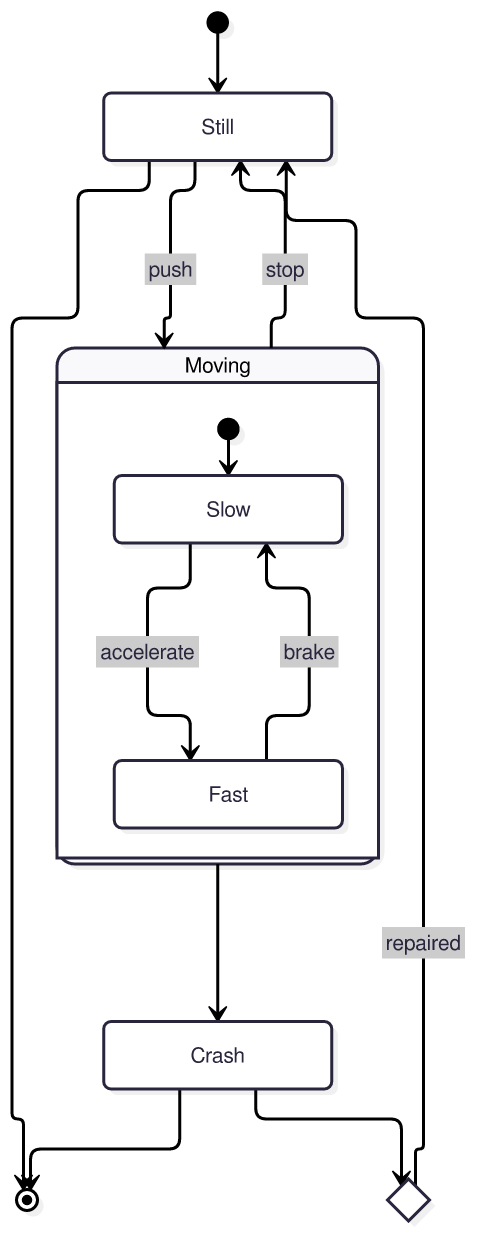
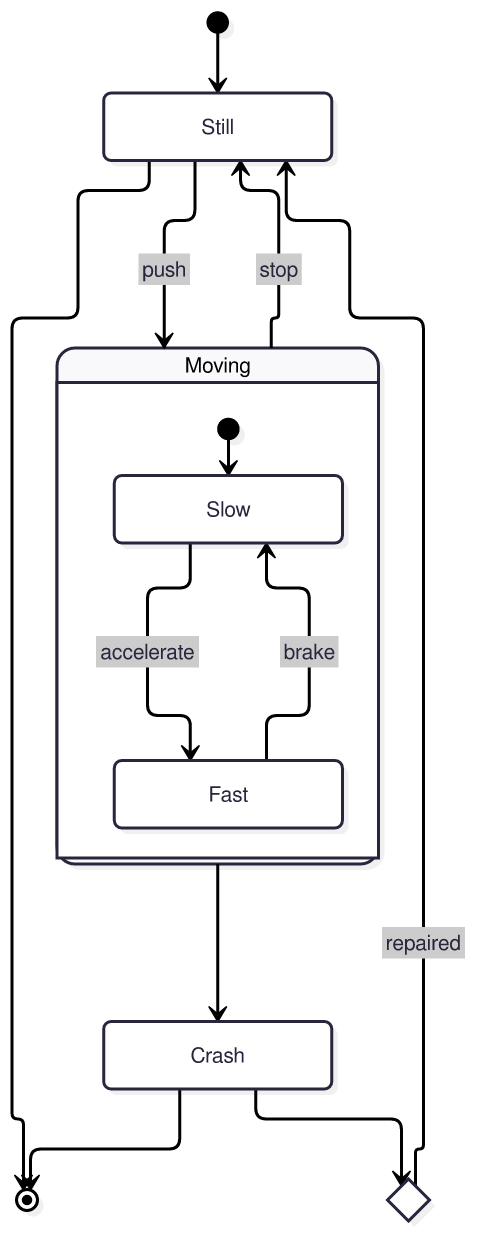
Regenerate gallery after routing fixes
Claude-Session: https://claude.ai/code/session_01YSBvDqvT7DHspcB7hQZR6n

Changed region(s): [[0.5283, 0.1541, 0.6457, 0.2774], [0.2935, 0.1541, 0.4109, 0.2774], [0.7044, 0.1849, 0.7631, 0.2774]]

diff --git a/docs/GALLERY.md b/docs/GALLERY.md
@@ -5,7 +5,7 @@ Regenerate with `cargo run --release --example gallery`.
 
 ## agentflow
 
-Source: [`examples/diagrams/agentflow.mmd`](../examples/diagrams/agentflow.mmd) · rendered in 1.38ms
+Source: [`examples/diagrams/agentflow.mmd`](../examples/diagrams/agentflow.mmd) · rendered in 673.00µs
 
 <details><summary>source</summary>
 
@@ -37,7 +37,7 @@ agentflow-beta TB
 
 ## architecture
 
-Source: [`examples/diagrams/architecture.mmd`](../examples/diagrams/architecture.mmd) · rendered in 202.51µs
+Source: [`examples/diagrams/architecture.mmd`](../examples/diagrams/architecture.mmd) · rendered in 331.53µs
 
 <details><summary>source</summary>
 
@@ -74,7 +74,7 @@ architecture-beta
 
 ## block
 
-Source: [`examples/diagrams/block.mmd`](../examples/diagrams/block.mmd) · rendered in 231.13µs
+Source: [`examples/diagrams/block.mmd`](../examples/diagrams/block.mmd) · rendered in 321.44µs
 
 <details><summary>source</summary>
 
@@ -109,7 +109,7 @@ block-beta
 
 ## c4-container
 
-Source: [`examples/diagrams/c4-container.mmd`](../examples/diagrams/c4-container.mmd) · rendered in 371.19µs
+Source: [`examples/diagrams/c4-container.mmd`](../examples/diagrams/c4-container.mmd) · rendered in 422.12µs
 
 <details><summary>source</summary>
 
@@ -154,7 +154,7 @@ C4Container
 
 ## c4
 
-Source: [`examples/diagrams/c4.mmd`](../examples/diagrams/c4.mmd) · rendered in 408.16µs
+Source: [`examples/diagrams/c4.mmd`](../examples/diagrams/c4.mmd) · rendered in 442.29µs
 
 <details><summary>source</summary>
 
@@ -209,7 +209,7 @@ C4Context
 
 ## class
 
-Source: [`examples/diagrams/class.mmd`](../examples/diagrams/class.mmd) · rendered in 320.38µs
+Source: [`examples/diagrams/class.mmd`](../examples/diagrams/class.mmd) · rendered in 320.50µs
 
 <details><summary>source</summary>
 
@@ -249,7 +249,7 @@ classDiagram
 
 ## cynefin
 
-Source: [`examples/diagrams/cynefin.mmd`](../examples/diagrams/cynefin.mmd) · rendered in 172.98µs
+Source: [`examples/diagrams/cynefin.mmd`](../examples/diagrams/cynefin.mmd) · rendered in 150.61µs
 
 <details><summary>source</summary>
 
@@ -285,7 +285,7 @@ cynefin-beta
 
 ## er-subgraphs
 
-Source: [`examples/diagrams/er-subgraphs.mmd`](../examples/diagrams/er-subgraphs.mmd) · rendered in 307.32µs
+Source: [`examples/diagrams/er-subgraphs.mmd`](../examples/diagrams/er-subgraphs.mmd) · rendered in 419.81µs
 
 <details><summary>source</summary>
 
@@ -325,7 +325,7 @@ erDiagram
 
 ## er
 
-Source: [`examples/diagrams/er.mmd`](../examples/diagrams/er.mmd) · rendered in 461.79µs
+Source: [`examples/diagrams/er.mmd`](../examples/diagrams/er.mmd) · rendered in 351.70µs
 
 <details><summary>source</summary>
 
@@ -377,7 +377,7 @@ erDiagram
 
 ## eventmodeling
 
-Source: [`examples/diagrams/eventmodeling.mmd`](../examples/diagrams/eventmodeling.mmd) · rendered in 176.32µs
+Source: [`examples/diagrams/eventmodeling.mmd`](../examples/diagrams/eventmodeling.mmd) · rendered in 192.71µs
 
 <details><summary>source</summary>
 
@@ -401,7 +401,7 @@ tf 08 rmo CartItems ->> 03 ->> 07
 
 ## flowchart
 
-Source: [`examples/diagrams/flowchart.mmd`](../examples/diagrams/flowchart.mmd) · rendered in 242.16µs
+Source: [`examples/diagrams/flowchart.mmd`](../examples/diagrams/flowchart.mmd) · rendered in 274.80µs
 
 <details><summary>source</summary>
 
@@ -429,7 +429,7 @@ flowchart TD
 
 ## gantt
 
-Source: [`examples/diagrams/gantt.mmd`](../examples/diagrams/gantt.mmd) · rendered in 773.07µs
+Source: [`examples/diagrams/gantt.mmd`](../examples/diagrams/gantt.mmd) · rendered in 895.64µs
 
 <details><summary>source</summary>
 
@@ -469,7 +469,7 @@ gantt
 
 ## gitgraph
 
-Source: [`examples/diagrams/gitgraph.mmd`](../examples/diagrams/gitgraph.mmd) · rendered in 151.96µs
+Source: [`examples/diagrams/gitgraph.mmd`](../examples/diagrams/gitgraph.mmd) · rendered in 244.30µs
 
 <details><summary>source</summary>
 
@@ -507,7 +507,7 @@ gitGraph
 
 ## info
 
-Source: [`examples/diagrams/info.mmd`](../examples/diagrams/info.mmd) · rendered in 91.60µs
+Source: [`examples/diagrams/info.mmd`](../examples/diagrams/info.mmd) · rendered in 149.51µs
 
 <details><summary>source</summary>
 
@@ -521,7 +521,7 @@ info showInfo
 
 ## ishikawa
 
-Source: [`examples/diagrams/ishikawa.mmd`](../examples/diagrams/ishikawa.mmd) · rendered in 140.42µs
+Source: [`examples/diagrams/ishikawa.mmd`](../examples/diagrams/ishikawa.mmd) · rendered in 216.37µs
 
 <details><summary>source</summary>
 
@@ -554,7 +554,7 @@ ishikawa-beta
 
 ## journey
 
-Source: [`examples/diagrams/journey.mmd`](../examples/diagrams/journey.mmd) · rendered in 242.66µs
+Source: [`examples/diagrams/journey.mmd`](../examples/diagrams/journey.mmd) · rendered in 265.84µs
 
 <details><summary>source</summary>
 
@@ -579,7 +579,7 @@ journey
 
 ## kanban
 
-Source: [`examples/diagrams/kanban.mmd`](../examples/diagrams/kanban.mmd) · rendered in 255.59µs
+Source: [`examples/diagrams/kanban.mmd`](../examples/diagrams/kanban.mmd) · rendered in 360.83µs
 
 <details><summary>source</summary>
 
@@ -614,7 +614,7 @@ kanban
 
 ## mindmap
 
-Source: [`examples/diagrams/mindmap.mmd`](../examples/diagrams/mindmap.mmd) · rendered in 187.16µs
+Source: [`examples/diagrams/mindmap.mmd`](../examples/diagrams/mindmap.mmd) · rendered in 210.47µs
 
 <details><summary>source</summary>
 
@@ -652,7 +652,7 @@ mindmap
 
 ## packet
 
-Source: [`examples/diagrams/packet.mmd`](../examples/diagrams/packet.mmd) · rendered in 281.00µs
+Source: [`examples/diagrams/packet.mmd`](../examples/diagrams/packet.mmd) · rendered in 360.27µs
 
 <details><summary>source</summary>
 
@@ -686,7 +686,7 @@ packet-beta
 
 ## pie
 
-Source: [`examples/diagrams/pie.mmd`](../examples/diagrams/pie.mmd) · rendered in 100.04µs
+Source: [`examples/diagrams/pie.mmd`](../examples/diagrams/pie.mmd) · rendered in 121.24µs
 
 <details><summary>source</summary>
 
@@ -705,7 +705,7 @@ pie showData
 
 ## quadrant
 
-Source: [`examples/diagrams/quadrant.mmd`](../examples/diagrams/quadrant.mmd) · rendered in 155.27µs
+Source: [`examples/diagrams/quadrant.mmd`](../examples/diagrams/quadrant.mmd) · rendered in 149.94µs
 
 <details><summary>source</summary>
 
@@ -734,7 +734,7 @@ quadrantChart
 
 ## radar
 
-Source: [`examples/diagrams/radar.mmd`](../examples/diagrams/radar.mmd) · rendered in 192.82µs
+Source: [`examples/diagrams/radar.mmd`](../examples/diagrams/radar.mmd) · rendered in 183.25µs
 
 <details><summary>source</summary>
 
@@ -762,7 +762,7 @@ radar-beta
 
 ## railroad-abnf
 
-Source: [`examples/diagrams/railroad-abnf.mmd`](../examples/diagrams/railroad-abnf.mmd) · rendered in 203.97µs
+Source: [`examples/diagrams/railroad-abnf.mmd`](../examples/diagrams/railroad-abnf.mmd) · rendered in 202.87µs
 
 <details><summary>source</summary>
 
@@ -783,7 +783,7 @@ port = [ ":" ] 1*5DIGIT %x30-39 ;
 
 ## railroad-ir
 
-Source: [`examples/diagrams/railroad-ir.mmd`](../examples/diagrams/railroad-ir.mmd) · rendered in 162.65µs
+Source: [`examples/diagrams/railroad-ir.mmd`](../examples/diagrams/railroad-ir.mmd) · rendered in 250.48µs
 
 <details><summary>source</summary>
 
@@ -811,7 +811,7 @@ number = sequence(optional(terminal("-")), oneOrMore(nonterminal("digit")), spec
 
 ## railroad-peg
 
-Source: [`examples/diagrams/railroad-peg.mmd`](../examples/diagrams/railroad-peg.mmd) · rendered in 157.15µs
+Source: [`examples/diagrams/railroad-peg.mmd`](../examples/diagrams/railroad-peg.mmd) · rendered in 188.96µs
 
 <details><summary>source</summary>
 
@@ -832,7 +832,7 @@ Identifier <- !Keyword Letter Letter* . ;
 
 ## railroad
 
-Source: [`examples/diagrams/railroad.mmd`](../examples/diagrams/railroad.mmd) · rendered in 200.47µs
+Source: [`examples/diagrams/railroad.mmd`](../examples/diagrams/railroad.mmd) · rendered in 211.20µs
 
 <details><summary>source</summary>
 
@@ -854,7 +854,7 @@ string = '"' { ? any character except quote ? } '"' ;
 
 ## requirement
 
-Source: [`examples/diagrams/requirement.mmd`](../examples/diagrams/requirement.mmd) · rendered in 310.16µs
+Source: [`examples/diagrams/requirement.mmd`](../examples/diagrams/requirement.mmd) · rendered in 304.95µs
 
 <details><summary>source</summary>
 
@@ -936,7 +936,7 @@ requirementDiagram
 
 ## sankey
 
-Source: [`examples/diagrams/sankey.mmd`](../examples/diagrams/sankey.mmd) · rendered in 492.64µs
+Source: [`examples/diagrams/sankey.mmd`](../examples/diagrams/sankey.mmd) · rendered in 873.10µs
 
 <details><summary>source</summary>
 
@@ -981,7 +981,7 @@ Electricity grid,"Heating and cooling, homes",42.0
 
 ## sequence
 
-Source: [`examples/diagrams/sequence.mmd`](../examples/diagrams/sequence.mmd) · rendered in 165.89µs
+Source: [`examples/diagrams/sequence.mmd`](../examples/diagrams/sequence.mmd) · rendered in 243.46µs
 
 <details><summary>source</summary>
 
@@ -1016,7 +1016,7 @@ sequenceDiagram
 
 ## shapes
 
-Source: [`examples/diagrams/shapes.mmd`](../examples/diagrams/shapes.mmd) · rendered in 704.65µs
+Source: [`examples/diagrams/shapes.mmd`](../examples/diagrams/shapes.mmd) · rendered in 729.46µs
 
 <details><summary>source</summary>
 
@@ -1052,7 +1052,7 @@ flowchart LR
 
 ## state
 
-Source: [`examples/diagrams/state.mmd`](../examples/diagrams/state.mmd) · rendered in 323.20µs
+Source: [`examples/diagrams/state.mmd`](../examples/diagrams/state.mmd) · rendered in 458.66µs
 
 <details><summary>source</summary>
 
@@ -1080,7 +1080,7 @@ stateDiagram-v2
 
 ## subgraph-collapse
 
-Source: [`examples/diagrams/subgraph-collapse.mmd`](../examples/diagrams/subgraph-collapse.mmd) · rendered in 1.05ms
+Source: [`examples/diagrams/subgraph-collapse.mmd`](../examples/diagrams/subgraph-collapse.mmd) · rendered in 563.16µs
 
 <details><summary>source</summary>
 
@@ -1110,7 +1110,7 @@ flowchart LR
 
 ## subgraphs
 
-Source: [`examples/diagrams/subgraphs.mmd`](../examples/diagrams/subgraphs.mmd) · rendered in 267.79µs
+Source: [`examples/diagrams/subgraphs.mmd`](../examples/diagrams/subgraphs.mmd) · rendered in 359.40µs
 
 <details><summary>source</summary>
 
@@ -1141,7 +1141,7 @@ flowchart LR
 
 ## swimlane
 
-Source: [`examples/diagrams/swimlane.mmd`](../examples/diagrams/swimlane.mmd) · rendered in 278.58µs
+Source: [`examples/diagrams/swimlane.mmd`](../examples/diagrams/swimlane.mmd) · rendered in 239.06µs
 
 <details><summary>source</summary>
 
@@ -1171,7 +1171,7 @@ swimlane-beta LR
 
 ## timeline
 
-Source: [`examples/diagrams/timeline.mmd`](../examples/diagrams/timeline.mmd) · rendered in 266.31µs
+Source: [`examples/diagrams/timeline.mmd`](../examples/diagrams/timeline.mmd) · rendered in 362.10µs
 
 <details><summary>source</summary>
 
@@ -1196,7 +1196,7 @@ timeline
 
 ## treemap
 
-Source: [`examples/diagrams/treemap.mmd`](../examples/diagrams/treemap.mmd) · rendered in 184.22µs
+Source: [`examples/diagrams/treemap.mmd`](../examples/diagrams/treemap.mmd) · rendered in 260.72µs
 
 <details><summary>source</summary>
 
@@ -1233,7 +1233,7 @@ classDef highlight fill:#ffd166,stroke:#c77d00,color:#000
 
 ## treeview
 
-Source: [`examples/diagrams/treeview.mmd`](../examples/diagrams/treeview.mmd) · rendered in 172.48µs
+Source: [`examples/diagrams/treeview.mmd`](../examples/diagrams/treeview.mmd) · rendered in 265.60µs
 
 <details><summary>source</summary>
 
@@ -1259,7 +1259,7 @@ treeView-beta
 
 ## usecase
 
-Source: [`examples/diagrams/usecase.mmd`](../examples/diagrams/usecase.mmd) · rendered in 1.32ms
+Source: [`examples/diagrams/usecase.mmd`](../examples/diagrams/usecase.mmd) · rendered in 408.25µs
 
 <details><summary>source</summary>
 
@@ -1303,7 +1303,7 @@ style pays stroke:#6b46c1,stroke-width:2px
 
 ## venn
 
-Source: [`examples/diagrams/venn.mmd`](../examples/diagrams/venn.mmd) · rendered in 411.83µs
+Source: [`examples/diagrams/venn.mmd`](../examples/diagrams/venn.mmd) · rendered in 417.78µs
 
 <details><summary>source</summary>
 
@@ -1327,7 +1327,7 @@ venn-beta
 
 ## wardley
 
-Source: [`examples/diagrams/wardley.mmd`](../examples/diagrams/wardley.mmd) · rendered in 160.09µs
+Source: [`examples/diagrams/wardley.mmd`](../examples/diagrams/wardley.mmd) · rendered in 189.19µs
 
 <details><summary>source</summary>
 
@@ -1376,7 +1376,7 @@ note "Migrate to cloud-native database" [0.60, 0.50]
 
 ## xychart
 
-Source: [`examples/diagrams/xychart.mmd`](../examples/diagrams/xychart.mmd) · rendered in 150.38µs
+Source: [`examples/diagrams/xychart.mmd`](../examples/diagrams/xychart.mmd) · rendered in 192.69µs
 
 <details><summary>source</summary>
 
@@ -1396,7 +1396,7 @@ xychart-beta
 
 ## zenuml
 
-Source: [`examples/diagrams/zenuml.mmd`](../examples/diagrams/zenuml.mmd) · rendered in 241.33µs
+Source: [`examples/diagrams/zenuml.mmd`](../examples/diagrams/zenuml.mmd) · rendered in 233.54µs
 
 <details><summary>source</summary>
 
